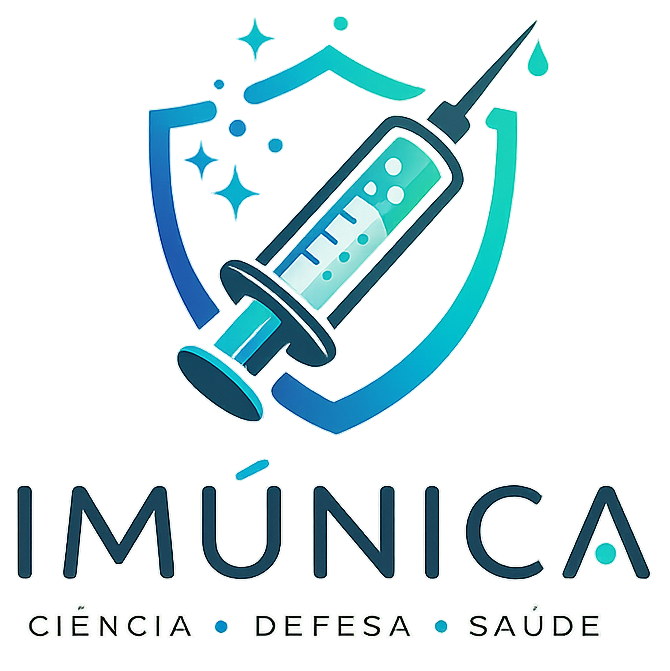
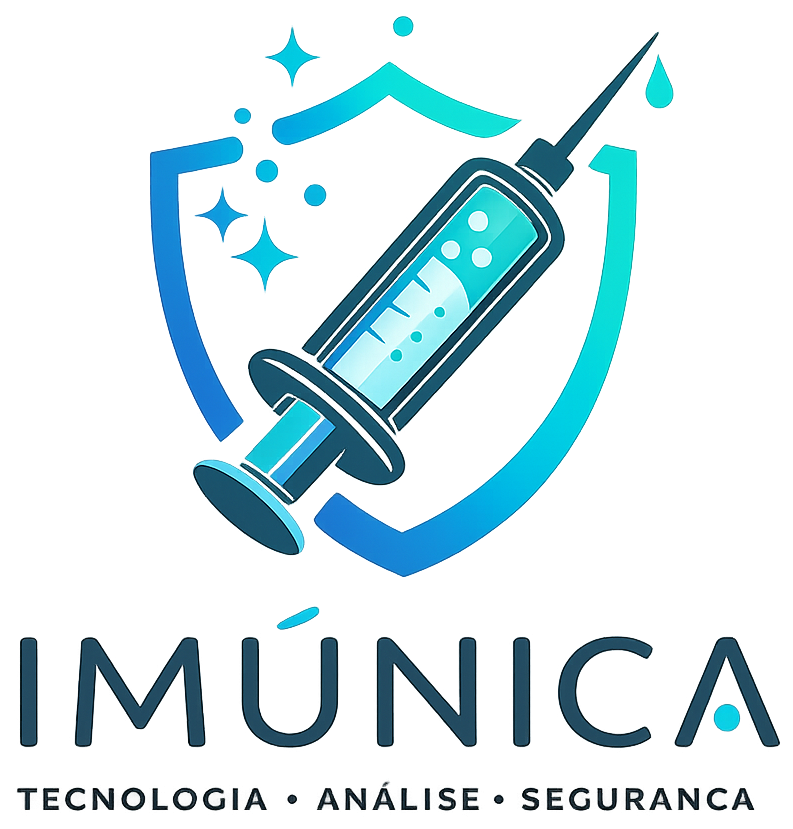
adicionando conteúdo à page área educativa

Changed region(s): [[0.0, 0.0, 0.9851, 0.9836], [0.3881, 0.2086, 0.4179, 0.2683]]

diff --git a/src/pages/EducativaPage/index.jsx b/src/pages/EducativaPage/index.jsx
@@ -2,34 +2,60 @@ import styles from "./styles.module.css";
 import { Button, Card, Image, Text } from "@chakra-ui/react";
 
 export default function EducativaPage() {
+  const alerta = () => {
+    alert("Esta Função Ainda em Desenvolvimento!");
+  }
+
   return (
     <div>
-      <Card.Root maxW="sm" overflow="hidden">
-        <Image
-          className={styles.img}
-          src="blob:https://translate.google.com.br/f2948010-f269-4349-9a63-4c2706b924ae"
-          alt=""
-        />
-        <Card.Body gap="2">
-          <Card.Title>Living room Sofa</Card.Title>
-          <Card.Description>
-            This sofa is perfect for modern tropical spaces, baroque inspired
-            spaces.
-          </Card.Description>
-          <Text
-            textStyle="2xl"
-            fontWeight="medium"
-            letterSpacing="tight"
-            mt="2"
-          >
-            $450
-          </Text>
-        </Card.Body>
-        <Card.Footer gap="2">
-          <Button variant="solid">Buy now</Button>
-          <Button variant="ghost">Add to cart</Button>
-        </Card.Footer>
-      </Card.Root>
+      <div className={styles.centerfied}>
+        <h1 className={styles.h1}>Área Educativa</h1>
+        <p>Nesta página você encontrará o catálogo de ferramentas educativas pensadas para desenvolver uma espécie de "imunidade" sobre a desinformação.</p>
+      </div>
+
+      <div className={styles.cards}>
+        <Card.Root maxW="50%" overflow="hidden">
+          <Image
+            minW="100%"
+            maxH="60%"
+            className={styles.img}
+            src="/image.games.png"
+            alt="jogos"
+          />
+          <Card.Body gap="2">
+            <Card.Title>Jogos Educativos</Card.Title>
+            <Card.Description>
+              Saiba mais sobre a desinformação digital através de jogos e
+              atividades interativas!
+            </Card.Description>
+          </Card.Body>
+          <Card.Footer gap="2">
+            <Button className={styles.linkButton} onClick={alerta}>
+              Ver Lista de Jogos
+            </Button>
+          </Card.Footer>
+        </Card.Root>
+
+        <Card.Root maxW="50%" overflow="hidden">
+          <Image
+            className={styles.img}
+            src="/image.reading.png"
+            alt="leitura"
+          />
+          <Card.Body gap="2">
+            <Card.Title>Material de Leitura</Card.Title>
+            <Card.Description>
+              Saiba mais sobre a desinformação digital através de conteúdo
+              informativo!
+            </Card.Description>
+          </Card.Body>
+          <Card.Footer gap="2">
+            <Button className={styles.linkButton} onClick={alerta}>
+              Ver Lista de Conteúdos
+            </Button>
+          </Card.Footer>
+        </Card.Root>
+      </div>
     </div>
   );
 }

diff --git a/src/pages/EducativaPage/styles.module.css b/src/pages/EducativaPage/styles.module.css
@@ -1,0 +1,23 @@
+.centerfied {
+    text-align: center;
+    margin-bottom: 4%;
+}
+.h1 {
+    font-size: xx-large;
+    color: #1E3A8A;
+}
+
+.cards {
+    display: flex;
+    flex-direction: row;
+    gap: 6px;
+}
+
+.img {
+    height: 60%;
+}
+
+.linkButton {
+    background-color: #1E3A8A;
+    width: 100%;
+}

diff --git a/src/components/SideBar/styles.module.css b/src/components/SideBar/styles.module.css
@@ -10,7 +10,7 @@
 
 .button:hover {
     box-shadow: 0 2px 6px rgba(0,0,0,0.15);
-    background-color: npm run devrgba(0, 0, 0, 0.05);
+    background-color: rgba(0, 0, 0, 0.05);
     transform: scale(1.05);
 }
 
@@ -35,7 +35,6 @@
     margin-top: 15%;
     user-select: none;
     -webkit-user-drag: none;
-    margin-top: 30%;
 }
 
 .nav {